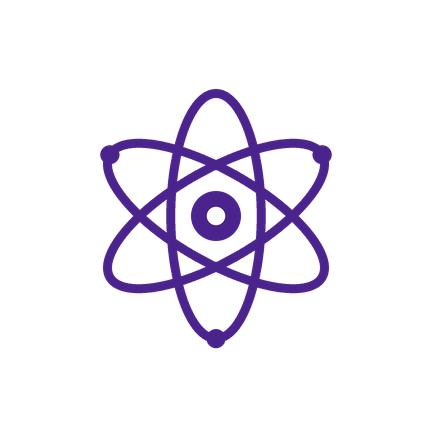
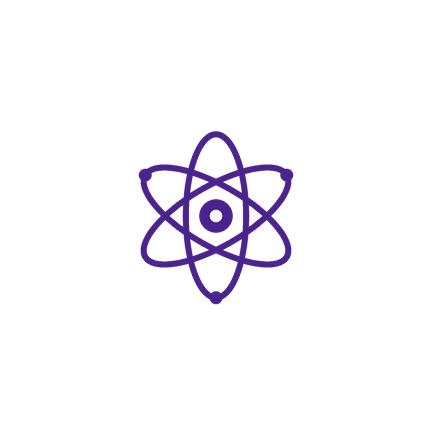
fix(branding): scale launcher artwork to two-thirds

Changed region(s): [[0.2106, 0.1806, 0.7824, 0.8125]]

diff --git a/tool/generate_android_branding.py b/tool/generate_android_branding.py
@@ -28,6 +28,9 @@ SVG = "http://www.w3.org/2000/svg"
 PAPER, INK, SIGNAL = "#F4F5F1", "#15171B", "#3A2FF0"
 VARIANTS = ("on-light", "on-dark", "mono-ink", "mono-white")
 LAUNCHER_STROKE = 24  # Launcher-only weight; supplied companion/splash remain 11.
+LAUNCHER_ARTWORK_SCALE = 2 / 3  # Relative to the previous white/purple launcher.
+LAUNCHER_ADAPTIVE_RADIUS = 33 * LAUNCHER_ARTWORK_SCALE
+LAUNCHER_RASTER_RADIUS_RATIO = .28  # Previous .42 radius, scaled by 2/3.
 LAUNCHER_WHITE, LAUNCHER_PURPLE = "#FFFFFF", "#4B238C"
 SOURCE_HASHES = {
[1 lines of base64/hex data omitted]
@@ -217,12 +220,13 @@ def build() -> None:
     for name, expected in SOURCE_HASHES.items():
         if sha(ASSETS / name) != expected:
             raise ValueError("Named source hash differs: " + name)
-    # 108 dp canvas, radius 33 dp: all primitives fit the central 66 dp circle.
+    # 108 dp canvas, radius 22 dp: artwork is two-thirds of its former size.
+    # The Android safe circle stays 66 dp; only the complete artwork scales.
     # Monochrome is deliberately its own even-odd single-color vector.
-    library_and_native("drawable/atomic_launcher_foreground.xml", vector("launcher-white-purple", 108, 33, 108, LAUNCHER_STROKE))
-    library_and_native("drawable/atomic_launcher_monochrome.xml", vector("themed-white", 108, 33, 108, LAUNCHER_STROKE))
-    foreground = raster("launcher-white-purple", 432, 132, stroke=LAUNCHER_STROKE)
-    monochrome = raster("themed-white", 432, 132, stroke=LAUNCHER_STROKE)
+    library_and_native("drawable/atomic_launcher_foreground.xml", vector("launcher-white-purple", 108, LAUNCHER_ADAPTIVE_RADIUS, 108, LAUNCHER_STROKE))
+    library_and_native("drawable/atomic_launcher_monochrome.xml", vector("themed-white", 108, LAUNCHER_ADAPTIVE_RADIUS, 108, LAUNCHER_STROKE))
+    foreground = raster("launcher-white-purple", 432, LAUNCHER_ADAPTIVE_RADIUS*4, stroke=LAUNCHER_STROKE)
+    monochrome = raster("themed-white", 432, LAUNCHER_ADAPTIVE_RADIUS*4, stroke=LAUNCHER_STROKE)
     save_png(LIB / "android/adaptive-foreground.png", foreground)
     save_png(LIB / "android/adaptive-monochrome.png", monochrome)
     write(LIB / "android/adaptive-background.svg", f'<svg xmlns="{SVG}" width="108" height="108" viewBox="0 0 108 108"><path fill="{LAUNCHER_WHITE}" d="M0 0h108v108H0z"/></svg>\n')
@@ -234,13 +238,13 @@ def build() -> None:
     for name in ("launcher_icon", "ic_launcher"):
         library_and_native("mipmap-anydpi-v26/" + name + ".xml", adaptive)
     for density, size in (("mdpi",48),("hdpi",72),("xhdpi",96),("xxhdpi",144),("xxxhdpi",192)):
-        image = raster("launcher-white-purple", size, size * .42, LAUNCHER_WHITE, LAUNCHER_STROKE)
+        image = raster("launcher-white-purple", size, size * LAUNCHER_RASTER_RADIUS_RATIO, LAUNCHER_WHITE, LAUNCHER_STROKE)
         save_png(LIB / "android/legacy" / f"launcher-{size}.png", image)
         for name in ("launcher_icon", "ic_launcher"):
             save_png(RES / ("mipmap-" + density) / (name + ".png"), image)
     # Store icon is opaque RGBA (32-bit), square, no hand-drawn outer rounding.
-    save_png(LIB / "android/google-play-512.png", raster("launcher-white-purple", 512, 512*.42, LAUNCHER_WHITE, LAUNCHER_STROKE))
-    save_png(LIB / "android/launcher-source-1024.png", raster("launcher-white-purple", 1024, 1024*.42, LAUNCHER_WHITE, LAUNCHER_STROKE))
+    save_png(LIB / "android/google-play-512.png", raster("launcher-white-purple", 512, 512*LAUNCHER_RASTER_RADIUS_RATIO, LAUNCHER_WHITE, LAUNCHER_STROKE))
+    save_png(LIB / "android/launcher-source-1024.png", raster("launcher-white-purple", 1024, 1024*LAUNCHER_RASTER_RADIUS_RATIO, LAUNCHER_WHITE, LAUNCHER_STROKE))
     for variant in ("on-light", "on-dark"):
         save_png(LIB / "splash" / f"atomic-splash-{variant}.png", raster(variant, 576, 176))
     # Native Android 12+: static vector, 288 dp canvas; 176 dp artwork fits its
@@ -300,7 +304,8 @@ def preview() -> None:
         bg=INK if i in (2,4) else LAUNCHER_WHITE
         # Android masks the 72 dp visible viewport of the 108 dp layer canvas;
         # the remaining 18 dp on each edge is reserved for parallax effects.
-        layer=raster("mono-white" if i==4 else "mono-ink" if i==3 else "on-dark" if i==2 else "launcher-white-purple",324,99,bg,15 if i==2 else LAUNCHER_STROKE)
+        radius=99 if i==2 else LAUNCHER_ADAPTIVE_RADIUS*3
+        layer=raster("mono-white" if i==4 else "mono-ink" if i==3 else "on-dark" if i==2 else "launcher-white-purple",324,radius,bg,15 if i==2 else LAUNCHER_STROKE)
         icon=layer.crop((54,54,270,270))
         mask=Image.new("L",(216,216)); md=ImageDraw.Draw(mask)
         if i==1: md.rounded_rectangle((0,0,215,215),radius=48,fill=255)
@@ -309,7 +314,7 @@ def preview() -> None:
         board.paste(flattened.convert("RGB"),(x,55),mask)
         draw.text((x,24),label,fill=INK)
     # Exact 108 dp / 66 dp adaptive and 288 dp / 192 dp native splash bounds.
-    adaptive=raster("launcher-white-purple",324,99,LAUNCHER_WHITE,LAUNCHER_STROKE)
+    adaptive=raster("launcher-white-purple",324,LAUNCHER_ADAPTIVE_RADIUS*3,LAUNCHER_WHITE,LAUNCHER_STROKE)
     board.paste(adaptive.convert("RGB"),(44,305))
     draw.rectangle((44,305,367,628),outline="#555555",width=1)
     draw.ellipse((107,368,305,566),outline="#CE4A4A",width=2)
@@ -319,10 +324,10 @@ def preview() -> None:
     board.paste(splash.convert("RGB"),(440,320))
     draw.ellipse((488,368,680,560),outline="#CE4A4A",width=2)
     draw.text((440,285),"Native splash: red circle = central 192 / 288 dp",fill=INK)
-    draw.text((800,330),"Launcher: white / purple; stroke 24",fill=INK)
+    draw.text((800,330),"Launcher: white / purple; 2/3 artwork",fill=INK)
     draw.text((800,356),"Actual launcher sizes: 48 px / 32 px",fill=INK)
     for i,size in enumerate((48,32)):
-        layer=raster("launcher-white-purple",size*6,size*6*33/108,LAUNCHER_WHITE,LAUNCHER_STROKE)
+        layer=raster("launcher-white-purple",size*6,size*6*LAUNCHER_ADAPTIVE_RADIUS/108,LAUNCHER_WHITE,LAUNCHER_STROKE)
         visible=layer.crop((size,size,size*5,size*5)).resize((size,size),Image.Resampling.LANCZOS)
         mask=Image.new("L",(size,size)); ImageDraw.Draw(mask).ellipse((0,0,size-1,size-1),fill=255)
         board.paste(visible.convert("RGB"),(800+i*85,395),mask)
@@ -354,6 +359,7 @@ def verify(provenance: dict) -> dict:
     alpha=foreground.getchannel("A")
     max_radius=max(math.hypot(x+0.5-216,y+0.5-216) for y in range(432) for x in range(432) if alpha.getpixel((x,y))>=128)
     assert max_radius <= 133, "Adaptive artwork outside central safe circle"
+    assert abs(max_radius-LAUNCHER_ADAPTIVE_RADIUS*4) <= 1, "Launcher artwork scale differs"
     monochrome=Image.open(LIB/"android/adaptive-monochrome.png").convert("RGBA")
     assert all(r==g==b==255 for r,g,b,a in list(monochrome.get_flattened_data()) if a), "Colored monochrome layer"
     store=Image.open(LIB/"android/google-play-512.png")
@@ -372,7 +378,8 @@ def verify(provenance: dict) -> dict:
             "visualBoundary":"Companion is a symmetric reconstruction, not pixel-identical JPEG extraction. On-dark intentionally substitutes Paper for Ink to preserve contrast.",
             "colors":{"paper":PAPER,"ink":INK,"signal":SIGNAL},
             "sources":provenance,"android":{"adaptiveCanvasDp":108,"adaptiveSafeDiameterDp":66,
-            "launcher":{"variant":"white-purple","background":LAUNCHER_WHITE,"artworkColor":LAUNCHER_PURPLE,"orbitStrokeWidth":LAUNCHER_STROKE,"sourceOrbitStrokeWidth":11},
+            "launcher":{"variant":"white-purple","background":LAUNCHER_WHITE,"artworkColor":LAUNCHER_PURPLE,"orbitStrokeWidth":LAUNCHER_STROKE,"sourceOrbitStrokeWidth":11,
+            "artworkScaleRelativeToPrevious":LAUNCHER_ARTWORK_SCALE,"adaptiveArtworkRadiusDp":LAUNCHER_ADAPTIVE_RADIUS,"rasterArtworkRadiusRatio":LAUNCHER_RASTER_RADIUS_RATIO},
             "measuredImportantArtworkMaxRadiusDp":round(max_radius/4,3),"nativeSplashCanvasDp":288,
             "nativeSplashSafeDiameterDp":192,"nativeSplashArtworkDiameterDp":176,
             "legacyPixels":[48,72,96,144,192],"play":{"pixels":512,"mode":"RGBA","maxBytes":1048576},

diff --git a/tool/test_verify_branding_assets.py b/tool/test_verify_branding_assets.py
@@ -34,6 +34,51 @@ def valid_library() -> None:
     assert proof["outcome"]=="pass" and proof["phase"]=="complete"
 
 
+def launcher_is_two_thirds() -> None:
+    for name in ("atomic_launcher_foreground", "atomic_launcher_monochrome"):
+        root=verifier.ET.fromstring(verifier.bounded(verifier.RES/"drawable"/(name+".xml")))
+        assert abs(float(root.find("group").get(verifier.A+"scaleX"))*362-22)<.00001
+    for relative in ("android/adaptive-foreground.png", "android/adaptive-monochrome.png"):
+        size,_,pixels,_=verifier.png(verifier.LIB/relative)
+        radii=[verifier.math.hypot(i//4%size+.5-size/2,i//4//size+.5-size/2)
+               for i in range(0,len(pixels),4) if pixels[i+3]>=128]
+        assert 87<=max(radii)<=89
+
+
+def old_full_size_vector() -> None:
+    path=verifier.RES/"drawable/atomic_launcher_foreground.xml"
+    root=verifier.ET.fromstring(verifier.bounded(path))
+    scale=root.find("group").get(verifier.A+"scaleX").encode()
+    substitution(path,verifier.bounded(path).replace(scale,b"0.091160221"),"adaptive_layers")
+
+
+def old_full_size_raster(relative: str) -> None:
+    path=verifier.LIB/relative
+    width,height,raw,_=verifier.png(path)
+    # Recreate a 150% centered version in memory with no Pillow dependency.
+    pixels=bytearray(len(raw))
+    for y in range(height):
+        source_y=int((y+.5-height/2)/1.5+height/2)
+        for x in range(width):
+            source_x=int((x+.5-width/2)/1.5+width/2)
+            source=(source_y*width+source_x)*4
+            target=(y*width+x)*4
+            pixels[target:target+4]=raw[source:source+4]
+    substitution(path,png(width,height,pixels),"white_purple_launcher_style")
+
+
+def old_full_size_adaptive() -> None:
+    old_full_size_raster("android/adaptive-foreground.png")
+
+
+def old_full_size_legacy() -> None:
+    old_full_size_raster("android/legacy/launcher-48.png")
+
+
+def old_full_size_store() -> None:
+    old_full_size_raster("android/google-play-512.png")
+
+
 def png_crc_corruption() -> None:
     path=verifier.LIB/"android/google-play-512.png"
     data=bytearray(verifier.bounded(path)); data[40]^=1
@@ -125,10 +170,11 @@ def manifest_path_escape() -> None:
 
 
 def main() -> None:
-    controls=(valid_library,png_crc_corruption,adaptive_outside_safe_zone,colored_monochrome,
+    controls=(valid_library,launcher_is_two_thirds,png_crc_corruption,adaptive_outside_safe_zone,colored_monochrome,
               transparent_store,wrong_legacy_size,native_monochrome_alias,source_asset_tamper,
               raw_exception_hidden,decode_bound,manifest_path_escape,
-              wrong_launcher_background,thin_launcher_orbits,wrong_launcher_purple)
+              wrong_launcher_background,thin_launcher_orbits,wrong_launcher_purple,
+              old_full_size_vector,old_full_size_adaptive,old_full_size_legacy,old_full_size_store)
     outcomes={}
     for control in controls:
         try:

diff --git a/tool/verify_branding_assets.py b/tool/verify_branding_assets.py
@@ -154,7 +154,7 @@ def adaptive_layers() -> None:
         assert root.get(A+"width")=="108dp" and root.get(A+"height")=="108dp"
         group=root.find("group")
         assert group is not None and group.get(A+"translateX")=="54" and group.get(A+"translateY")=="54"
-        assert abs(float(group.get(A+"scaleX","0"))*362-33)<.00001
+        assert abs(float(group.get(A+"scaleX","0"))*362-22)<.00001
         assert group.get(A+"scaleX")==group.get(A+"scaleY")
     mono=ET.fromstring(bounded(RES/"drawable/atomic_launcher_monochrome.xml"))
     colors={node.get(A+key) for node in mono.iter() for key in ("fillColor","strokeColor") if node.get(A+key) is not None}
@@ -172,7 +172,7 @@ def android_launcher() -> None:
         for name in ("launcher_icon","ic_launcher"):
             width,height,pixels,_=png(RES/("mipmap-"+density)/(name+".png"))
             assert (width,height)==(size,size) and set(pixels[3::4])=={255}
-        assert bounded(RES/("mipmap-"+density)/"launcher_icon.png")==bounded(LIB/"android/legacy"/("launcher-"+str(size)+".png"))
+            assert bounded(RES/("mipmap-"+density)/(name+".png"))==bounded(LIB/"android/legacy"/("launcher-"+str(size)+".png"))
     manifest=ET.fromstring(bounded(ROOT/"android/app/src/main/AndroidManifest.xml"))
     assert manifest.find("application").get(A+"icon")=="@mipmap/launcher_icon"
 
@@ -227,6 +227,22 @@ def white_purple_launcher_style() -> None:
     opaque={foreground[i:i+3] for i in range(0,len(foreground),4) if foreground[i+3]==255}
     assert b"\x4b\x23\x8c" in opaque and b"\xff\xff\xff" in opaque
     assert b"\x3a\x2f\xf0" not in opaque and b"\xf4\xf5\xf1" not in opaque
+    # Measure actual artwork independently of generated hashes and metadata.
+    # Alpha identifies transparent artwork; opaque tiles use solid purple cores.
+    paths=[LIB/"android"/name for name in ("adaptive-foreground.png", "adaptive-monochrome.png",
+                                         "google-play-512.png", "launcher-source-1024.png")]
+    paths.extend(sorted((LIB/"android/legacy").glob("launcher-*.png")))
+    for path in paths:
+        size,height,pixels,_=png(path)
+        assert size==height
+        transparent="adaptive-" in path.name
+        radii=[]
+        for i in range(0,len(pixels),4):
+            if pixels[i+3]>=128 and (transparent or all(abs(pixels[i+j]-color)<=32 for j,color in enumerate((75,35,140)))):
+                pixel=i//4
+                radii.append(math.hypot(pixel%size+.5-size/2,pixel//size+.5-size/2))
+        expected=88 if transparent else size*.28
+        assert radii and abs(max(radii)-expected)<=1.5
 
 
 def mascots() -> None:

diff --git a/assets/new-atomic-icons/README.md b/assets/new-atomic-icons/README.md
@@ -35,8 +35,12 @@ rounded outer corners. The Play PNG is below 1 MiB.
 
 The launcher and Play artwork use a white background (`#FFFFFF`) and dark-purple
 atomic lines, electrons and nucleus (`#4B238C`). Launcher orbit strokes are 24
-source units instead of the supplied 11 for small-size legibility. Ellipse geometry, electrons,
-nucleus and adaptive scale are unchanged. Both colored and themed launcher
+source units instead of the supplied 11 for small-size legibility. The complete
+launcher artwork, including its strokes, is scaled to **two-thirds of its previous
+size** within the same tile. Adaptive artwork radius is now 22 dp (previously
+33 dp); legacy, Play and 1024 px source artwork radius is 28% of canvas width
+(previously 42%). Ellipse geometry, electrons and nucleus keep their proportions.
+Both colored and themed launcher
 orbits use that weight. The supplied SVG/PNG companions, in-app logos and native
 splash retain their original strokes. `manifest.json` records this launcher-only
 derivation. The mask preview includes actual 48 px and 32 px circular icons.
@@ -67,7 +71,7 @@ python tool/test_verify_branding_assets.py
 
 The standard-library verifier emits only fixed outcome codes, parses bounded PNG
 chunks with CRC and decompression limits, and checks actual RGBA alpha coverage,
-native references and library hashes. Its fourteen controls include the valid
+native references and library hashes. Its nineteen controls include the valid
 library and deliberate in-memory corruption of safe zones, monochrome colors,
 store opacity, dimensions, CRC, source hashes and native aliases; oversized
 decodes, path escapes and private exception text are also rejected. No source
@@ -75,6 +79,10 @@ asset is mutated by those controls. Exact decoded GIF first-frame identity is
 verified by the local generation tool; CI checks the committed hashes, dimensions
 and alpha of those PNG fallbacks. Three controls reject a dark launcher
 background, incorrect purple, or thinner launcher orbit weight.
+The artwork-size check measures raster coverage independently of hashes and
+manifest metadata. Four controls reject the previous full-size adaptive vector,
+adaptive raster, legacy raster and Play icon; a positive control checks the new
+22 dp radius. Android still controls the launcher's outer tile size.
 
 The one-time `--import-source <existing-assets-directory>` option validates the
 three named JPEG/GIF hashes and imports the supplied vector/PNG/GIF companions.
